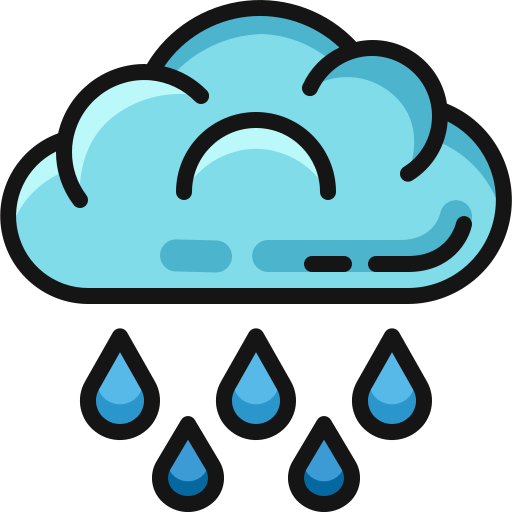
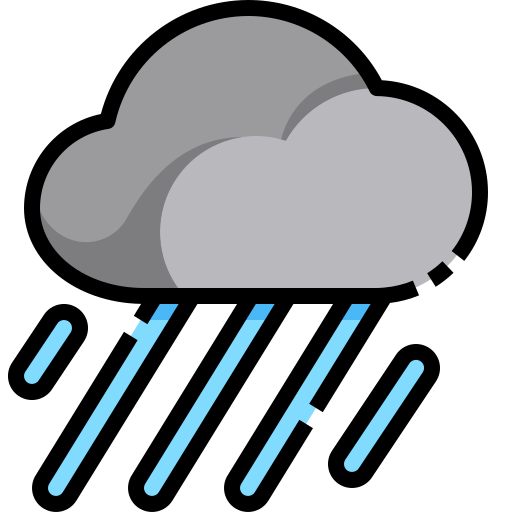
add images to weathercode

diff --git a/weather-forecas/src/components/utility/weatherImages.ts b/weather-forecas/src/components/utility/weatherImages.ts
@@ -1,0 +1,123 @@
+import blowing_snow from "../../assets/blowing_snow.png";
+import clear from "../../assets/clear.png";
+import cloudy from "../../assets/cloudy.png";
+import fog from "../../assets/fog.png";
+import hail from "../../assets/hail.png";
+import haze from "../../assets/haze.png";
+import heavy_rain from "../../assets/heavy_rain.png";
+import heavy_snow from "../../assets/heavy_snow.png";
+import heavy_thunderstorm from "../../assets/heavy_thunderstorm.png";
+import lightning from "../../assets/lightning.png";
+import rain from "../../assets/rain.png";
+import sandstorm from "../../assets/sandstorm.png";
+import slight_rain from "../../assets/slight_rain.png";
+import slight_snow from "../../assets/slight_snow.png";
+import slight_thunderstorm from "../../assets/slight_thunderstorm.png";
+import slow_rain from "../../assets/slow_rain.png";
+import smoke from "../../assets/smoke.png";
+import snow_drizzle from "../../assets/snow_drizzle.png";
+import snow_grains from "../../assets/snow_grains.png";
+import snow_rain from "../../assets/snow_rain.png";
+import snowflake from "../../assets/snowflake.png";
+import thunderstorm from "../../assets/thunderstorm.png";
+import tornado from "../../assets/tornado.png";
+import wind from "../../assets/wind.png";
+
+export const getImageByWeathercode = (weathercode: number) => {
+  if (
+    (10 <= weathercode && weathercode <= 12) ||
+    weathercode === 28 ||
+    (40 <= weathercode && weathercode <= 49)
+  ) {
+    return fog;
+  }
+  if (97 <= weathercode && weathercode <= 99) {
+    return heavy_thunderstorm;
+  }
+  if (0 <= weathercode && weathercode <= 3) {
+    return cloudy;
+  }
+  if (weathercode === 4) {
+    return smoke;
+  }
+  if (weathercode === 5) {
+    return haze;
+  }
+  if (
+    (6 <= weathercode && weathercode <= 9) ||
+    (30 <= weathercode && weathercode <= 35)
+  ) {
+    return sandstorm;
+  }
+  if (weathercode === 13) {
+    return lightning;
+  }
+  if (weathercode === 18 || weathercode === 19) {
+    return wind;
+  }
+  if (14 <= weathercode && weathercode <= 16) {
+    return slow_rain;
+  }
+  if (weathercode === 17 || weathercode === 29) {
+    return thunderstorm;
+  }
+  if (weathercode === 95 || weathercode === 96) {
+    return slight_thunderstorm;
+  }
+  if (weathercode === 20) {
+    return tornado;
+  }
+  if (
+    weathercode === 21 ||
+    weathercode === 24 ||
+    (60 <= weathercode && weathercode <= 66)
+  ) {
+    return rain;
+  }
+  if (weathercode === 77) {
+    return snow_grains;
+  }
+  if (weathercode === 78) {
+    return snowflake;
+  }
+  if (36 <= weathercode && weathercode <= 38) {
+    return blowing_snow;
+  }
+  if (50 <= weathercode && weathercode <= 56) {
+    return snow_drizzle;
+  }
+  if (57 <= weathercode && weathercode <= 59) {
+    return snow_rain;
+  }
+  if (
+    weathercode === 27 ||
+    weathercode === 79 ||
+    (89 <= weathercode && weathercode <= 90)
+  ) {
+    return hail;
+  }
+  if (weathercode === 91) {
+    return slight_rain;
+  }
+  if (weathercode === 26 || weathercode === 94 || weathercode === 39) {
+    return heavy_snow;
+  }
+  if (
+    weathercode === 22 ||
+    weathercode === 23 ||
+    (70 <= weathercode && weathercode <= 75) ||
+    (85 <= weathercode && weathercode <= 88) ||
+    weathercode === 93
+  ) {
+    return slight_snow;
+  }
+  if (
+    weathercode === 25 ||
+    (67 <= weathercode && weathercode <= 69) ||
+    (80 <= weathercode && weathercode <= 84) ||
+    weathercode === 92
+  ) {
+    return heavy_rain;
+  }
+  return clear;
+};

diff --git a/weather-forecas/src/components/hourlyForecast/hourlyForecast.tsx b/weather-forecas/src/components/hourlyForecast/hourlyForecast.tsx
@@ -6,12 +6,14 @@ import {
   fetchHourlyForecast,
 } from "../../redux/reducers/APIreducer";
 import { AppDispatch, StoreType } from "../../redux/store";
+import { getImageByWeathercode } from "../utility/weatherImages";
 
 import {
   HourContainer,
   HourlyContainer,
   HourlyForecastDiv,
   Weathercode,
+  WeathercodeImg,
 } from "./hourlyForecastStyled";
 
 export const HourlyForecast = (props: any) => {
@@ -49,9 +51,12 @@ export const HourlyForecast = (props: any) => {
           fiveRelevantHours.map((item, index) => (
             <HourContainer key={index}>
               <h3>time: {item.time}</h3>
-              <Weathercode weathercode={item.weathercode}>
-                <img src="/weather-forecas/src/assets/fog.png" alt="fog"></img>
-                <h3>weathercode</h3>
+              <Weathercode>
+                <WeathercodeImg
+                  weathercode={item.weathercode}
+                  src={getImageByWeathercode(item.weathercode)}
+                  alt="weathercode_img"
+                ></WeathercodeImg>
               </Weathercode>
               <h3>weathercode: {item.weathercode}</h3>
               <h3>temperature: {item.temperature}</h3>

diff --git a/weather-forecas/src/components/dailyTemperature/dailyTemp.tsx b/weather-forecas/src/components/dailyTemperature/dailyTemp.tsx
@@ -1,4 +1,4 @@
-import { useEffect, useState } from "react";
+import { useEffect } from "react";
 import { useDispatch, useSelector } from "react-redux";
 
 import {
@@ -7,6 +7,11 @@ import {
   fetchDailyForecast,
 } from "../../redux/reducers/APIreducer";
 import { AppDispatch, StoreType } from "../../redux/store";
+import {
+  Weathercode,
+  WeathercodeImg,
+} from "../hourlyForecast/hourlyForecastStyled";
+import { getImageByWeathercode } from "../utility/weatherImages";
 
 export const ForecastData = () => {
   const weather: daysForecastType = useSelector(
@@ -73,6 +78,13 @@ export const ForecastData = () => {
               <p>Max temperature: {item.temperatureMax}</p>
               <p>Min temperature: {item.temperatureMin}</p>
               <p>UV Index Max: {item.uvIndexMax}</p>
+              <Weathercode>
+                <WeathercodeImg
+                  weathercode={item.weathercode}
+                  src={getImageByWeathercode(item.weathercode)}
+                  alt="weathercode_img"
+                ></WeathercodeImg>
+              </Weathercode>
               <p>Weathercode: {item.weathercode}</p>
             </div>
           </div>

diff --git a/weather-forecas/src/components/hourlyForecast/hourlyForecastStyled.ts b/weather-forecas/src/components/hourlyForecast/hourlyForecastStyled.ts
@@ -17,7 +17,11 @@ export const HourContainer = styled.div`
   display: flex;
   flex-direction: column;
 `;
-export const Weathercode = styled.div<IWeathercode>`
-  image: ${(props) =>
-    props.weathercode === 2 ? "/weather-forecas/src/assets/fog.png" : "yellow"};
+export const Weathercode = styled.div`
+  background-color: pink;
+`;
+
+export const WeathercodeImg = styled.img<IWeathercode>`
+  width: 40px;
+  height: auto;
 `;

diff --git a/weather-forecas/src/react-app-env.d.ts b/weather-forecas/src/react-app-env.d.ts
@@ -1,0 +1,4 @@
+declare module "*.png";
+declare module "*.svg";
+declare module "*.jpeg";
+declare module "*.jpg";
